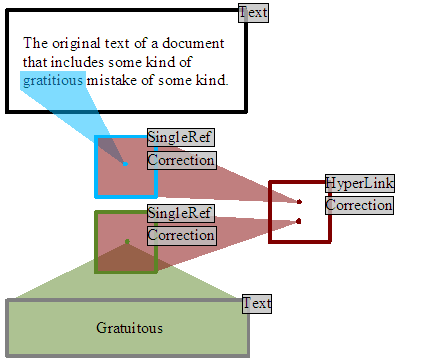
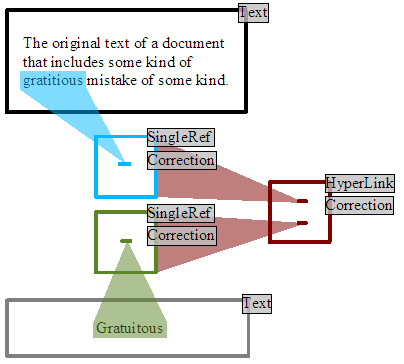
-Updated hyperlink diagram -Split endorsement and hyperlink into separate openoffice files

diff --git a/htdocs/dolphin-demo/tech.html b/htdocs/dolphin-demo/tech.html
@@ -10,7 +10,7 @@
 	  <title>Dolphin Demo Technical Documentation</title>
     </head>
 
-    <body class="draft" bgcolor="#FFFFFF">
+    <body class="draft">
 <!-- abora:header --><h1>Dolphin Demo Technical Documentation</h1><!-- abora:header_close -->
 
 		<p><font color="red">---- Document still being written ----</font></p>
